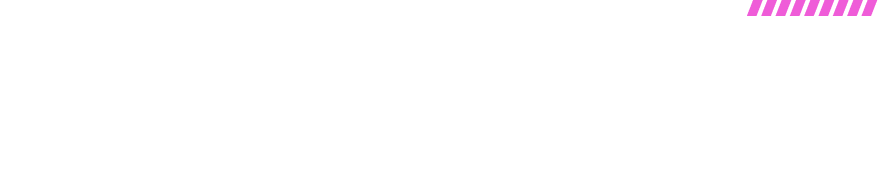
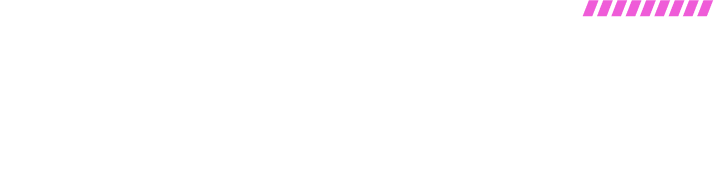
-

Changed region(s): [[0.8011, 0.0, 1.0, 0.1143]]

diff --git a/client/src/components/LandingSectionThird.js b/client/src/components/LandingSectionThird.js
@@ -108,16 +108,20 @@ const SectionThirdStyle = styled.div`
   }
   .section-3 {
     display: flex;
-    justify-content: space-between;
+    justify-content: flex-end;
     align-items: center;
     /* margin-bottom: 7rem; */
     max-width: 1400px;
+    position: relative;
     .section3-text {
-      width: 30%;
-      margin: 0 0 30rem 5rem;
+      position: absolute;
+      left: 0;
+      width: 50%;
+      margin: 0 0rem 30rem -4rem;
     }
     .section3-image {
       width: 70%;
+      margin-right: -5rem;
     }
   }
   .section-4 {
@@ -127,7 +131,8 @@ const SectionThirdStyle = styled.div`
       justify-content: flex-end;
     }
     .section4text1 {
-      margin: -8rem 4rem 20rem 0;
+      margin: -8rem 4rem 20rem 0rem;
+      width: 50%;
     }
     .section4text2 {
       width: 90%;
